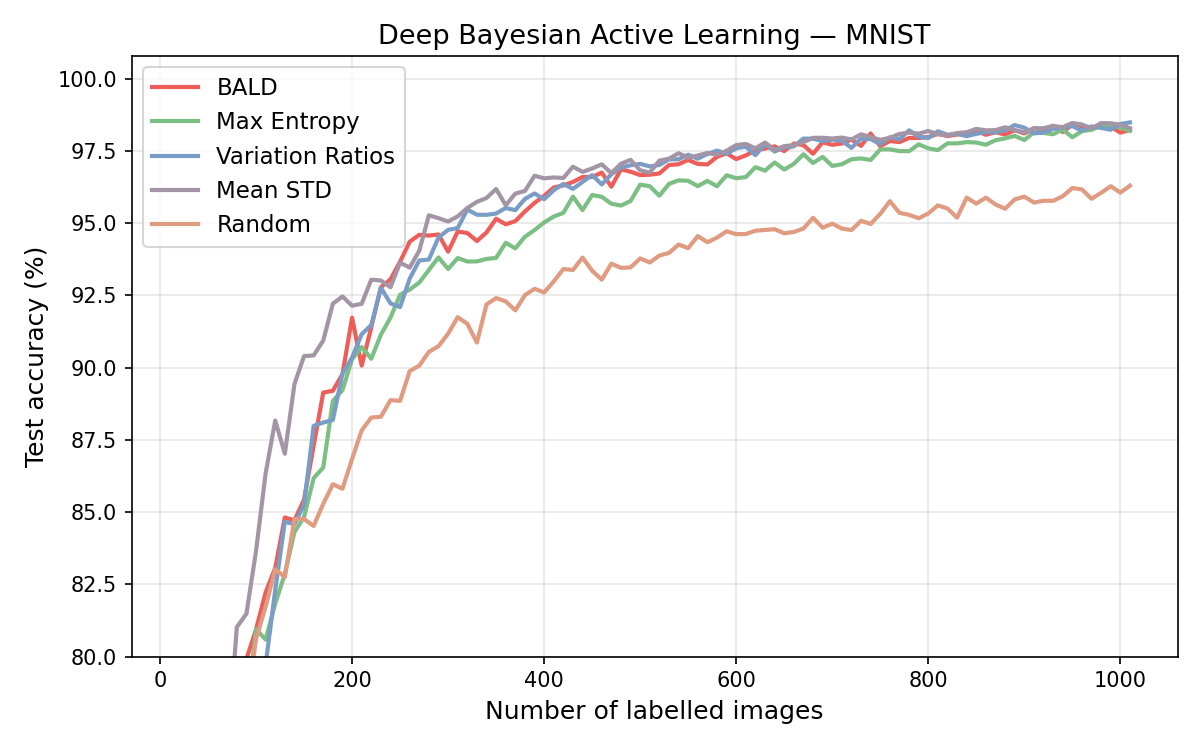
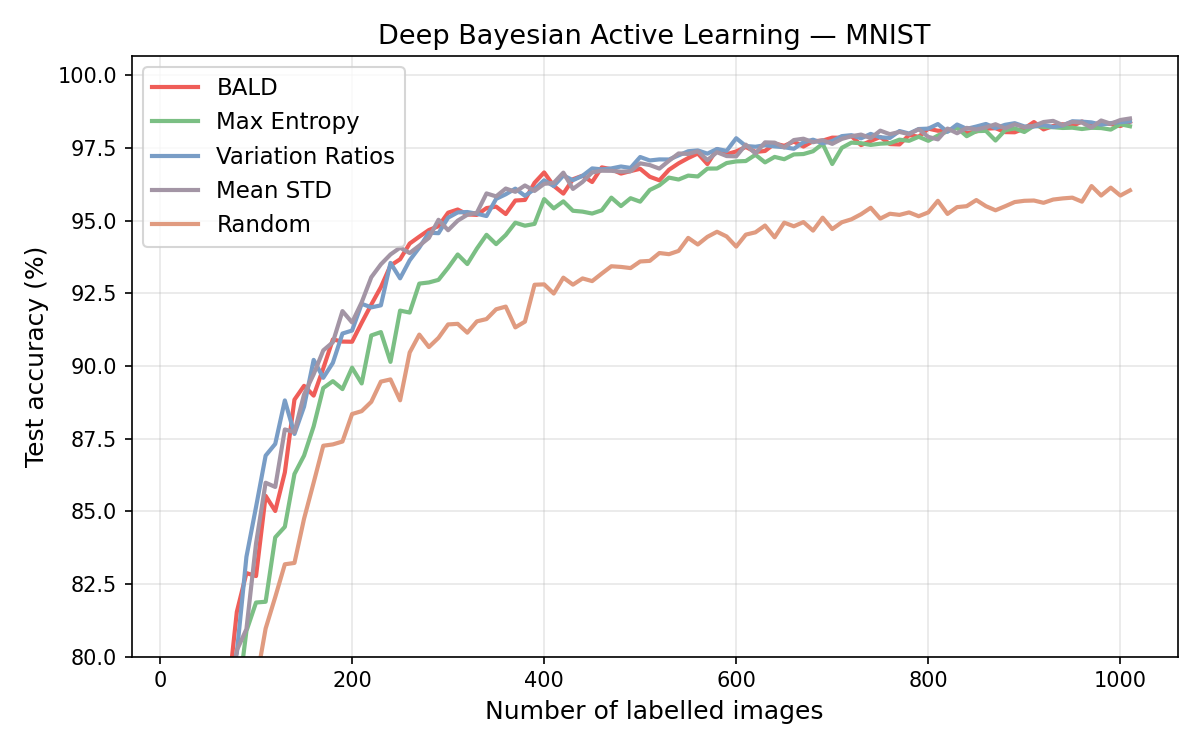
Final commit, adding results table to the main

diff --git a/main.py b/main.py
@@ -12,8 +12,6 @@ import torchvision
 from libs.network import BayesianCNN
 from model.learning_loop import (
     ACQUISITION_FUNCTIONS,
-    active_learning_loop,
-    get_balanced_initial_set,
     run_acquisitions,
 )
 
@@ -322,7 +320,16 @@ def main():
         plot_history(results, save_path=plot_path)
     
     # --- Show error table ---
-    compute_acquisition_table(results)
+    rows = compute_acquisition_table(results)
+    # Print as a formatted table
+    acq_names = list(results.keys())
+
+    header = f"{'% error':<10}" + "".join(f"{a:<20}" for a in acq_names)
+    print(header)
+    print("-" * len(header))
+    for row in rows:
+        line = f"{row['% error']:<10}" + "".join(f"{str(row[a]):<20}" for a in acq_names)
+        print(line)
 
 
 if __name__ == '__main__':